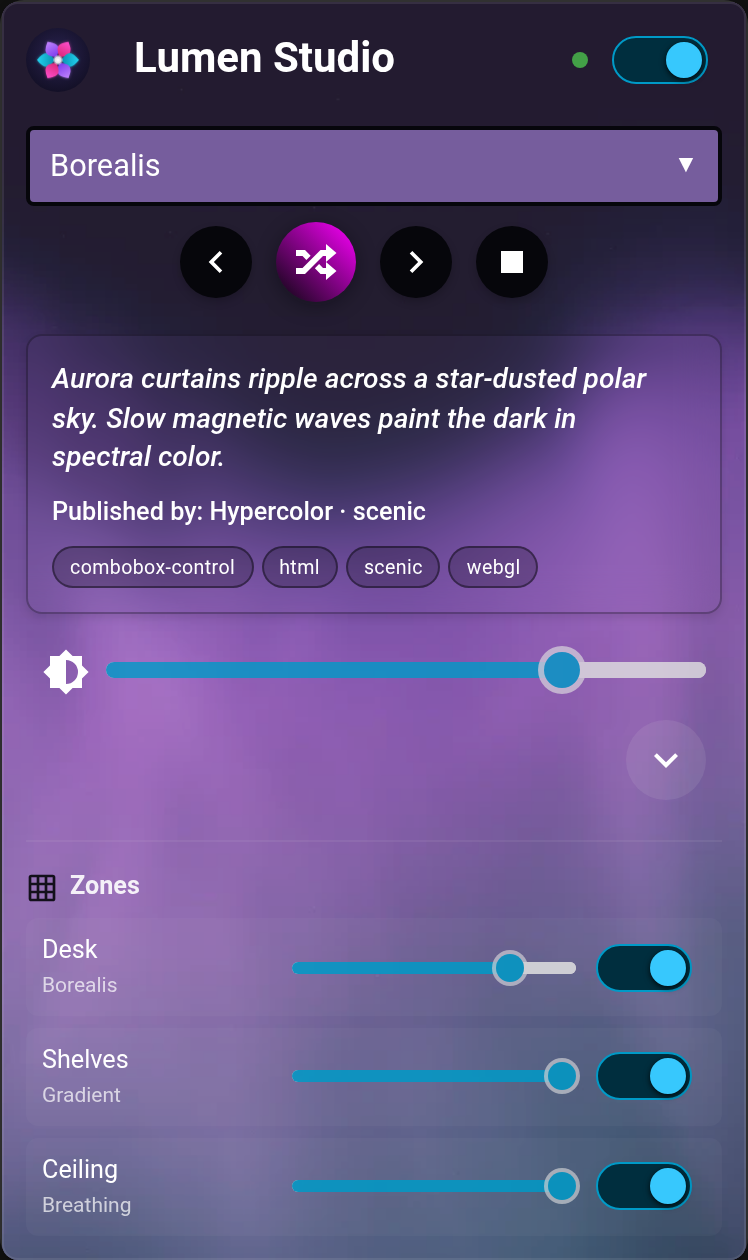
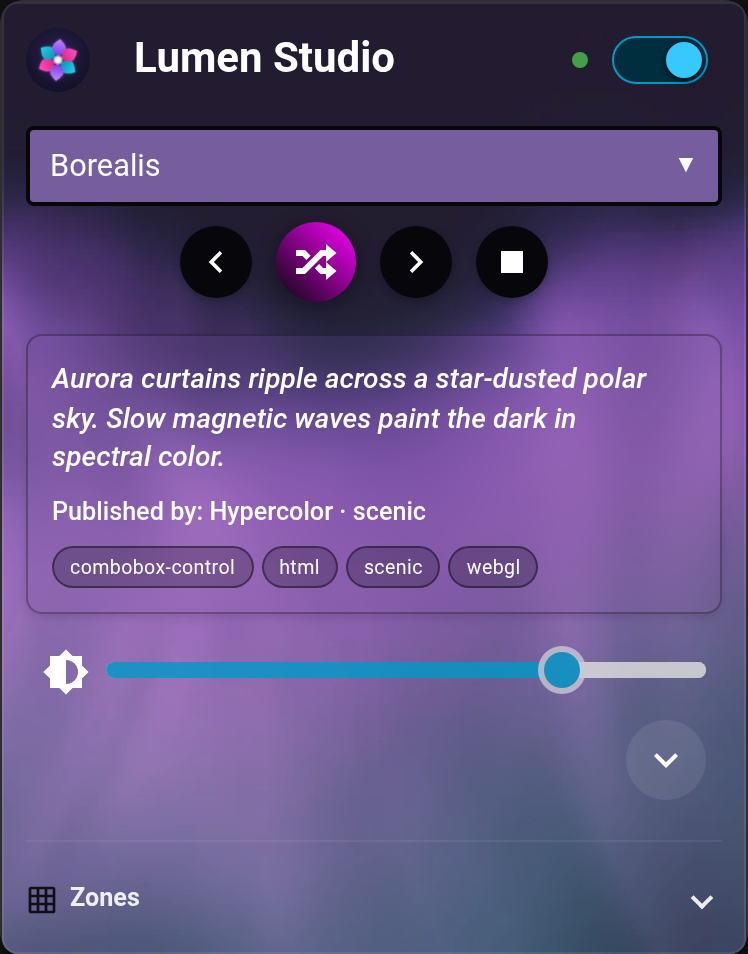
fix(card): keep zone focus visible and refresh captures
Use the readable text foreground for the zone disclosure focus ring,
including palettes with a dark accent. Refresh real Home Assistant
screenshots to show the collapsed default and expanded controls.

diff --git a/src/hyper-light-card-styles.css b/src/hyper-light-card-styles.css
@@ -1289,7 +1289,7 @@ ha-switch {
 }
 
 .zones-title:focus-visible {
-  outline: 2px solid var(--accent-color, var(--primary-color, #03a9f4));
+  outline: 2px solid var(--text-color, var(--primary-text-color, white));
   outline-offset: 2px;
   border-radius: 4px;
 }

diff --git a/docs/demo.md b/docs/demo.md
@@ -21,8 +21,10 @@ show_zones: true
 The [recording](https://github.com/hyperb1iss/hyper-light-card/releases/download/v1.2.0/hyper-light-card-demo.mp4)
 demonstrates keyboard navigation in the effect picker, scene selection, live
 parameter changes, and zone power. Screenshots also show the card at phone width.
-The captures use card 1.2.0, Home Assistant 2026.9.4, integration 0.7.1, and
-Hypercolor 0.8.0. The phone screenshot uses a 390-pixel browser viewport;
+The screenshots use card 1.2.1; the recording uses 1.2.0. Both use Home
+Assistant 2026.9.4, integration 0.7.1, and Hypercolor 0.8.0. In 1.2.1, select
+**Zones** to expand its controls before the zone-power step.
+The phone screenshot uses a 390-pixel browser viewport;
 physical touch-device testing is not part of this capture.
 No physical lights are attached to the recording environment; card actions go
 through real Home Assistant services to real daemon scene and effect state.

diff --git a/README.md b/README.md
@@ -15,7 +15,7 @@ running effect's colors, and provides a visual configuration editor.
 
 | Compact | Live controls | Phone width |
 | --- | --- | --- |
-| ![Compact Hypercolor card with Borealis and three zones](images/hypercolor-compact.png) | ![Expanded Hypercolor card with Hyperbloom live controls](images/hypercolor-controls.png) | ![Hypercolor card at a 390-pixel phone viewport](images/hypercolor-mobile.png) |
+| ![Compact Hypercolor card with Borealis and collapsed zones](images/hypercolor-compact.png) | ![Expanded Hypercolor card with Borealis live controls](images/hypercolor-controls.png) | ![Hypercolor card at a 390-pixel phone viewport](images/hypercolor-mobile.png) |
 
 [Watch the demo](https://github.com/hyperb1iss/hyper-light-card/releases/download/v1.2.0/hyper-light-card-demo.mp4)
 · [Demo setup](docs/demo.md)
